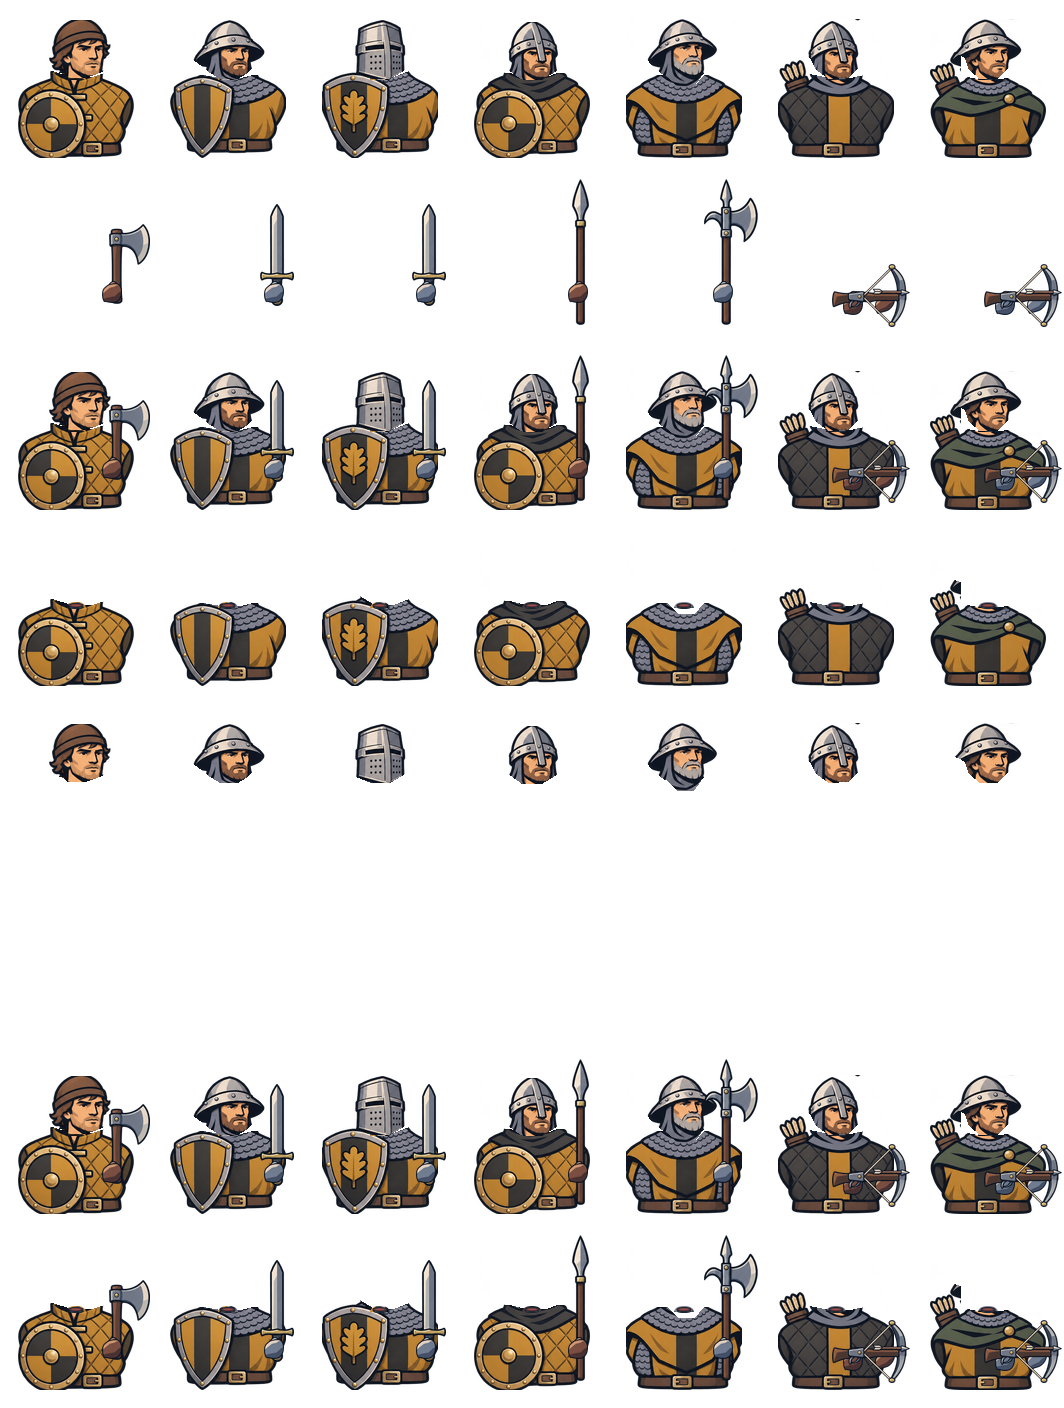
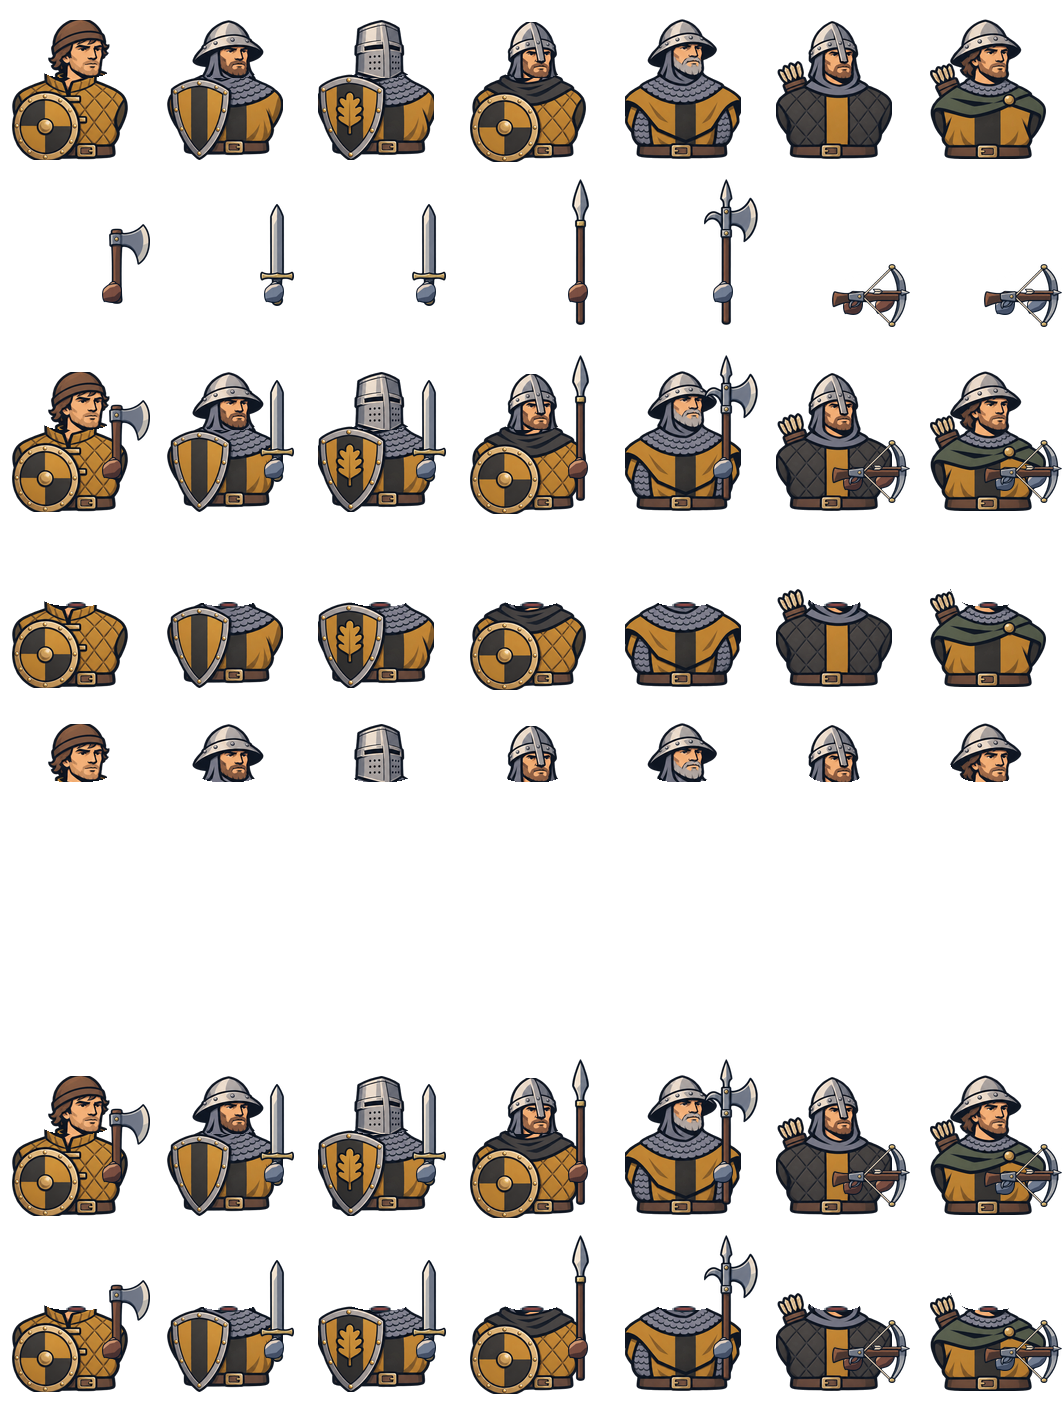
Графика: ровный срез головы у геральдических бойцов Доминиона
Один симметричный вырез вокруг шеи для головы и торса, бюст сдвигается
на общий сустав шеи; голова заполняет свою дыру без щелей, обрывки и
пылинки вокруг среза убраны. Тест: голова одним куском и кончается у шеи.

Closes #200

Claude-Session: https://claude.ai/code/session_0112NLBkQuKmgxErvmpzKpjp

diff --git a/shareness/lessons.md b/shareness/lessons.md
@@ -177,3 +177,4 @@
 
 - 2026-11-17 — Глеб выбрал первый геральдический концепт для всей пешей линейки Доминиона; меняем скины и при необходимости анимации, арбалеты и баланс сохраняем. Атласы должны включать портреты, головы, обезглавленные тела и трупы; нанятые бойцы сохраняют новое оформление и знамя игрока.
 - 2026-11-18 — Геральдическая пехота: горизонтальный срез головы захватывает плечи или оставляет волосы. Нужны отдельные маски головы и очистки воротника, общая точка шеи и проверка обоих направлений. Отделённая голова должна брать тот же UnitArt, вариант внешности, масштаб и центр, что живая фигура; эффект среза привязывается к шее.
+- 2026-11-18 — Срез головы у геральдических бойцов Доминиона (#200): голова зеркалится обратно (лицом вперёд), поэтому вырез под неё обязан быть симметричным относительно точки шеи, а весь бюст сдвигается так, чтобы шея села на общий сустав (76,78). Тогда голова ровно заполняет свою дыру в торсе — без щелей и наложений. Раньше два разных многоугольника (`polygon`/`head_polygon`) и сдвиг одной головы давали рваный край. Пересборка: `NODE_PATH=<node_modules с sharp> node godot/tools/battle/render_dominion_heraldic.cjs`, затем импорт.
